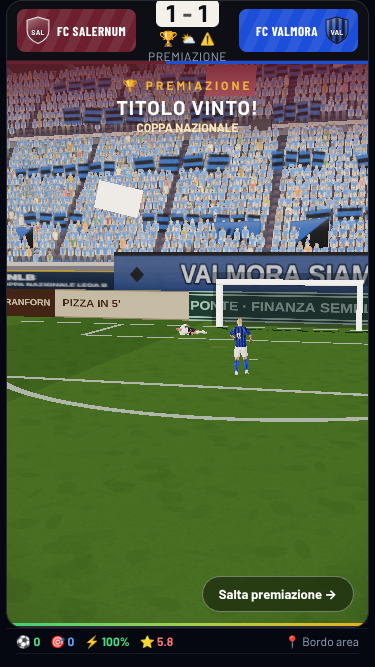
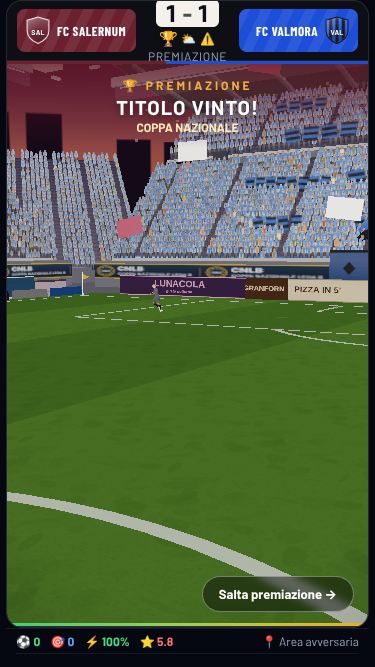
giro 214 PO-477: rapporto, foto prima/dopo (telefono e PC), controlli eseguiti
Claude-Session: https://claude.ai/code/session_01QEYia9d4zXmSSCgWLy7fUw

diff --git a/docs/sviluppo/RAPPORTO-giro214.md b/docs/sviluppo/RAPPORTO-giro214.md
@@ -1,0 +1,110 @@
+# Rapporto giro 214 — la lotteria dei rigori: tabellone opaco e striscia «RIGORI» (PO-477)
+
+Ramo `sviluppo/giro214-tabellone`, partito da `lavoro/195` (39ada80, contiene i giri 204 e 208). `GAME_VERSION` non toccata, roadmap
+non toccata. Rosso unico del giro: `window.__CPM_NO_G214`. Ogni numero qui sotto è **misurato** con la sonda o il guardiano indicato;
+dove non lo è lo scrivo. Foto in `docs/sviluppo/giro214/` (telefono 375×667, PC 1366×768).
+
+Riprende i dubbi 2 e 3 del giro 208 (`RAPPORTO-giro208.md`): la scritta «RIGORI» del maxischermo si leggeva in trasparenza dietro il
+tabellone DOM, e la striscia in alto mostrava ancora «1 - 1» e «90'».
+
+## 0. In breve
+
+| Punto | Prima (= rosso `__CPM_NO_G214`) | Dopo | Guardiano |
+|---|---|---|---|
+| (1) Tabellone della lotteria opaco | nel rettangolo del tabellone **1.253 – 96.301** pixel cambiano se si toglie la tela 3D (sfumatura trasparente: si vedono folla, maxischermo, «RIGORI»); pixel bianchi comparsi solo col 3D nella fascia sotto il punteggio fino a **419** | **0 pixel** che cambiano su tutti i campioni giudicati (telefono 10, PC 9), **0** pixel bianchi | `tabellone-214` |
+| (2) Striscia in alto durante la lotteria | «**90'**» (o «91'») e «**1–1**» in tutti i campioni (telefono 10/10, PC 7/7) | «**RIGORI**» e il punteggio della **serie** in tutti i campioni (10/10 telefono in casa, 9/9 PC in trasferta), aggiornato a ogni tiro (0–0 → 5–4), nessun minuto | `tabellone-214` |
+| Fine della lotteria | — | in cerimonia la striscia torna al risultato della partita «1–1» con «🏆», nessun «RIGORI» | `tabellone-214` |
+
+## 1. Misura prima
+
+Sonda nuova **`tests/visual/sonda-214.mjs`** (`npm run sonda-214`; `CPM_PC=1`, `CPM_TRASFERTA=1`, `CPM_FINALE=1`, `CPM_ROSSO=1`,
+`CPM_FOTO=<prefisso>`). Partita: finale di Coppa Nazionale Salernum–Valmora forzata all'1-1 al 90' (`__CPM_SO_FORCE`), serie vinta
+5-4 dall'eroe, poi cerimonia (la striscia resta in vista: è il caso in cui si può vedere se «torna normale»).
+
+- **Trasparenza.** Nel rettangolo del tabellone «CALCI DI RIGORE» due foto nello stesso istante, con la tela 3D e con la tela nascosta;
+  i pixel che cambiano (scarto > 24 su un canale) sono 3D visto attraverso il tabellone. Prima: telefono 1.253–42.407, PC fino a
+  96.301 pixel; i pixel bianchi comparsi solo col 3D nella fascia del maxischermo (la scritta) fino a 419. Foto
+  `prima-telefono-serie.png`, `prima-pc-serie.png` (la folla si vede dietro il punteggio e i pallini).
+- **Striscia.** `data-cpm="risultato-v2"` e `data-cpm="minuto-v2"` letti a ogni campione contro lo stato vero della serie
+  (`__CPM_SO_STATE`): «90'|1–1» per tutta la serie (letture «90'|1–1|serie 0–0 … 5–4»).
+
+### Due inciampi della sonda (dichiarati, correzioni della sonda e non delle soglie)
+1. Le due foto durano più di un tiro: alla prima stesura **tutti** i campioni avevano il testo del tabellone cambiato fra la foto con e
+   quella senza 3D (es. «2 — 1» → «2 — 2»), e la differenza era del DOM. Ora, per la durata della coppia, il tabellone è sostituito da
+   una **copia congelata** (`cloneNode`: stessi stili scritti, quindi stessa opacità), così fra le due foto cambia solo il 3D.
+2. Nel guardiano, il PC in trasferta è uscito rosso con 48.967 pixel su **un** campione (gli altri 0): la cerimonia era partita fra le
+   due foto e «TITOLO VINTO!» compariva in una sola. Ora un campione vale solo se a fine coppia si è ancora nella lotteria
+   (`r.fermo`); gli scarti si contano (`pixelScartatiFase`).
+
+## 2. Correzione (solo `src/15-live-match.jsx`; `__CPM_NO_G214` la spegne)
+
+- **Tabellone** (`data-cpm="tabellone214"`): lo sfondo passa dalla sfumatura `rgba(5,10,22,0.86) → 0` a **`TINTE.bg`** pieno, con un
+  filo `TINTE.bordo` sotto. Stesse dimensioni, stesso contenuto, stessa posizione: cambia solo l'opacità.
+- **Striscia in alto**: `_so214 = phase==="shootout" && soState`. In lotteria `_hVal901/_aVal901` (i numeri della striscia, usati sia
+  dalla barra nuova sia da quella vecchia `__CPM_NO901`) diventano la serie — `isMatchHome ? soState.hs : soState.as` per la squadra di
+  casa, come per il punteggio della partita (hs = la serie dell'eroe, come nel tabellone) — e il minuto diventa «RIGORI». I numeri
+  arrivano dallo stesso stato del tabellone, quindi si aggiornano allo stesso istante (a ogni esito mostrato).
+- Fuori dalla fase `shootout` niente cambia: in cerimonia e a fine partita tornano risultato della partita e «🏆»/«FT».
+- `node tools/build-src.mjs` + `node tools/check-src.mjs`: **IDENTICO BYTE PER BYTE**.
+
+## 3. Misura dopo
+
+`tabellone-214` (tre corse in fila sullo stesso browser, ~8 minuti):
+
+- **A · verde, telefono, in casa**: «RIGORI» 10/10 · minuto 0 · serie 10/10 · «1–1» 0 · capovolta 0 · letture 0–0, 1–0, 1–1, 2–2,
+  3–3, 4–3, 4–4, 5–4 · pixel del 3D attraverso il tabellone **max 0** su 10 campioni (6 fuori stacco) · dopo la serie: cerimonia «1–1 🏆».
+- **B · verde, PC, in trasferta**: «RIGORI» 9/9 · serie 9/9 (orientata: Valmora a sinistra, la serie dell'eroe a destra, es. «4–5») ·
+  capovolta 0 · pixel **max 0** su 9 campioni (6 fuori stacco) · cerimonia «1–1 🏆».
+- **C · rosso `__CPM_NO_G214`**: «RIGORI» 0/11 · minuto 11/11 · «1–1» della partita 10 · pixel del 3D fino a **35.691**.
+
+Foto: `dopo-telefono-serie.png` (serie 1–1: coincide per caso col risultato della partita, ma sotto c'è «RIGORI»), `dopo-pc-serie.png`, `dopo-pc-trasferta-serie.png` (lotteria) e `dopo-*-dopo.png` (cerimonia con la
+striscia tornata «1 - 1»).
+
+## 4. Guardiano (nessuna soglia abbassata)
+
+**`tabellone-214`** (nuovo, `npm run tabellone-214`). Soglie dichiarate nel file:
+- **verde (A e B)**: 0 errori; ≥ 5 campioni e ≥ 3 letture diverse; in **ogni** campione «RIGORI», nessun minuto, punteggio uguale alla
+  serie orientata, mai «1–1» della partita, mai capovolto; **0 pixel** del 3D attraverso il tabellone in **tutti** i campioni
+  giudicati, ≥ 3 fuori dallo stacco nero; dopo la serie cerimonia con «1–1» e senza «RIGORI».
+- **rosso (C)**: mai «RIGORI», minuto in tutti i campioni (≥ 5), ≥ 1.000 pixel del 3D su ≥ 3 campioni fuori stacco.
+- Meno campioni, o fase dopo la serie diversa dalla cerimonia = **non giudicato = rosso**.
+
+`ci-runner.mjs`: `tabellone-214` **una volta** in `completa` e **una volta** in `carriera` (quindi una volta in `notte`, che le unisce
+senza doppioni), nella MAPPA di `src/15` (mirata) e fra i LENTI. `node --check` verde. `piazzato-204` non è toccato: le sue misure (il
+maxischermo col tabellone tolto) restano valide.
+
+## 5. Controlli eseguiti (uno alla volta, `CPM_CHROME=/opt/pw-browsers/chromium`, `free -m`/`df -h` prima)
+
+| Controllo | Esito | Durata |
+|---|---|---|
+| `tabellone-214` | ✅ verde A, B · rosso C visto | ~8 min |
+| `piazzato-204` | ✅ (ramo «già calciato», lotteria del 204, maxischermo del 208: verdi e rossi visti) | 6m58s |
+| `lotteria-191` | ✅ (verdi telefono/PC, tre rossi visti) | 5m19s |
+| `rigore-191` | ✅ (verde-prod, verde-banco, rosso visto) | 4m11s |
+| `riserva2d-205` | ✅ «verde col verde, rosso col rosso» | 8m36s |
+| `hud-c3` | ✅ uscita 0, tutte le misure nelle bande | 6m23s |
+| `griglia-mobile` | ✅ uscita 0, «misura completa: 14 schermate × 5 larghezze» | 4m15s |
+| `career-critical` | ✅ uscita 0, 5 «✅ PASS», nessun ❌ (oltre i 10 minuti: la prima corsa, interrotta dal tetto della chiamata, non vale; rifatta da capo in un'esecuzione seguita fino alla riga FINE) | >10 min |
+| `test:logic` | ✅ pass 51 · fail 0 | 3 s |
+| `save-compat` | ✅ 12 pass · 0 fail (una prima corsa senza `CPM_CHROME` non è partita: browser non trovato; rifatta) | 12 s |
+
+Note: `griglia-mobile` riscrive le foto di `docs/collaudo-grafico/g0/`; non fanno parte del giro e le ho riportate allo stato del ramo.
+Durante la preparazione ho avviato per errore `ci-runner.mjs` importandolo per una prova di sintassi: fermato dopo pochi secondi,
+nessun processo rimasto, l'unico file toccato (una foto del giro 212) riportato com'era.
+
+## 6. Dubbi per il PO
+
+1. **Orientamento in trasferta.** Ho seguito «come il resto»: la striscia ha la squadra di casa a sinistra, quindi in trasferta la
+   serie dell'eroe sta a **destra** (foto `dopo-pc-trasferta-serie.png`: striscia «1 - 2», Valmora–Salernum). Il tabellone della
+   lotteria invece mette **sempre** l'eroe a sinistra («SAL … VAL», «2 — 1»). Nello stesso istante si leggono quindi «1 - 2» in alto
+   e «2 — 1» sotto: numeri coerenti squadra per squadra, ma in ordine opposto. Se si preferisce l'ordine del tabellone, va girato uno
+   dei due.
+2. **Il banner finale della serie** («✅ PASSI IL TURNO!» / «DAL DISCHETTO ALLA GLORIA!», ~3,6 s) è ancora fase di lotteria: lì la
+   striscia dice ancora «RIGORI» col punteggio finale della serie; torna «1–1» quando parte la cerimonia. Se «finita la lotteria» va
+   inteso dal banner finale, è una riga.
+3. **Altezza del tabellone ora opaco.** Sul telefono copre ~120 px sotto la striscia (prima la parte bassa sfumava sul 3D); in quella
+   fascia ora non si vede la folla/il maxischermo. Era la decisione; lo segnalo perché cambia l'inquadratura percepita.
+4. **Lotteria in 2D (`Riserva2D205`)**: la striscia in alto è la stessa, quindi anche lì mostra «RIGORI» e la serie (riserva2d-205 resta
+   verde). Il tabellone opaco vale anche lì. Non l'ho misurato con una sonda dedicata.
+5. **Scena di sola visione del rigore già calciato (dubbio 1 del giro 208)**: non è una lotteria, non è toccata (striscia col minuto).
+6. **Barra vecchia (`__CPM_NO901`)**: riceve la stessa correzione (stessi valori), ma il guardiano misura solo la barra attuale.
